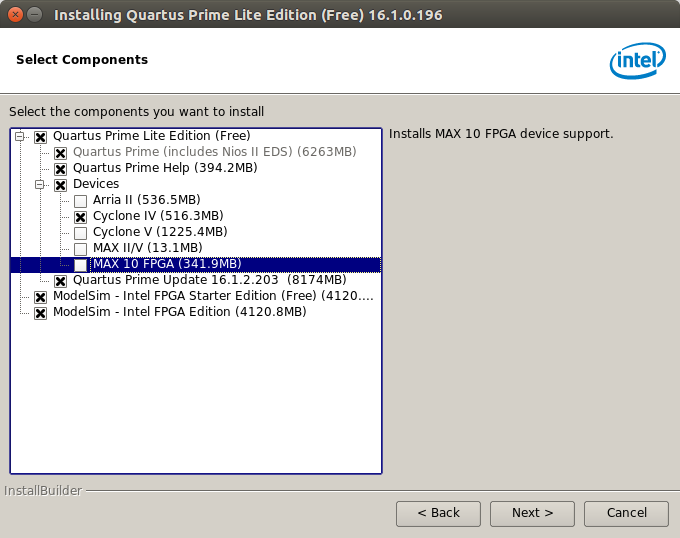
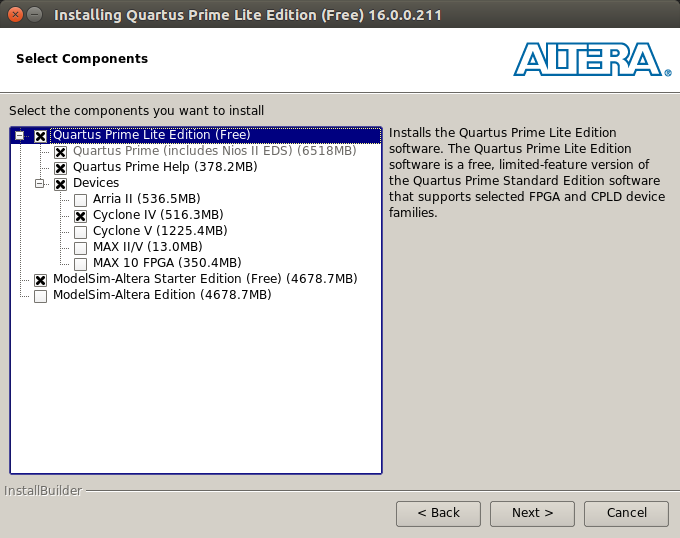
Changing FPGA tutorial slightly
Walking through how to set up the DE2i-150 board, rather
than Quartus itself. Going through how to install Quartus, which version
to install, how to set up USB Blaster with udev (explaining all the little things
I learned).

diff --git a/_drafts/fpga_setup.md b/_drafts/fpga_setup.md
@@ -1,6 +1,6 @@
 ---
 layout:     post
-title:      Getting Started with Altera Quartus Prime
+title:      Getting Started with the DE2i-150 Dev Board
 date:       2017-02-19
 summary:    Setting up Altera Quartus on Ubuntu
 thumbnail:  smile-o
@@ -11,15 +11,22 @@ tags:
 ---
 I'v been itching for a side project lately, so I decided to dig out my DE2i-150 FPGA/Intel Atom development board and start playing with it. I had previously worked with it a bit in a Windows environment, but now that I'm using Ubuntu full-time, I needed to set it up in Linux. I'm going to document all the steps I took to get the board up and running in the hopes that this helps other people get going faster.
 
-You can download Quartus Prime from Intel here:
-[https://www.altera.com/products/design-software/fpga-design/quartus-prime/download.html]()
+<figure class="full">
+    <img src="/assets/img/quartus_install/de2i-150.jpg">
+    <figcaption>The DE2i-150</figcaption>
+</figure>
 
-I chose to download the Lite edition, since it supported my FPGA Series (Cyclone IV GX). If you're in the market for an introductory FPGA, you should consider getting one which the Lite edition supports so that you don't have to pay for the software. A list of supported devices for each software version appears on the above page.
+## Installing Quartus
+
+The latest version of Quartus (as of this writing) is 16.1.2 -- unfortunately, template projects for the DE2i-150 board are only supported for versions 15.1.0 and 16.0.0. So I elected to download the slightly older 16.0.0 release. No big deal.
+
+Here's a link to Quartus Prime Lite 16.0.0:
+[http://dl.altera.com/16.0/?edition=lite]()
 
 The download will come with a setup.sh script in the top-level directory. I recommend running the script as root so that you can install the application in `/opt`:
-
-    sudo ./setup.sh
-
+~~~
+sudo ./setup.sh
+~~~
 For monolithic applications like this one, it's typically recommended to install them in `/opt`:
 <figure class="full">
     <img src="/assets/img/quartus_install/install_dir.png">
@@ -33,3 +40,108 @@ On the next screen, you'll choose the components you want to install. Because I 
     <figcaption>Choosing what to install</figcaption>
 </figure>
 
+Proceed with the installation. Go grab something to eat while it finishes up.
+
+Once it's done, you can add the installation to your path to more easily start the program from the command line. On my machine, all Quartus executables are located at `/opt/altera_lite/16.0/quartus/bin`.
+To add this to my path, I created a script in /etc/profile.d called quartus.sh:
+~~~
+PATH=$PATH:/opt/altera_lite/16.0/quartus/bin
+~~~
+At startup, this script and all others in /etc/profile.d will be sourced.
+Adapt this script to your system, replacing `/opt/altera_lite/16.0` with the install path you used before.
+
+## Configuring the USB Blaster
+
+Now it's time to set up the USB Blaster, which we will use to program the FPGA. Altera Quartus comes with a little daemon
+called `jtagd` which runs in the background and provides a connection between Altera tools and the Linux
+USB drivers, so that Quartus can use the USB Blaster. By default, only `root` will be given access to the USB
+device -- we can leverage udev rules to give normal users access.
+
+Power your DE2i-150 board and plug it into your computer. Type the command `lsusb` to show the USB devices currently
+available, and look for the entry with "Altera" in the name:
+~~~
+...
+Bus 001 Device 014: ID 09fb:6001 Altera Blaster
+...
+~~~
+
+Take note of the two hex numbers separate by a colon just before "Altera Blaster". The first of these,
+`09fb`, is the vendor ID. This uniquely identifies Altera.
+The second, `6001`, is the product ID, which uniquely identifies
+the USB Blaster. I suspect that these will be the same for everyone with this board, but in case,
+take note of whichever vendor and product IDs you see, as you will need them in the next step.
+
+Navigate to `/etc/udev/rules.d`. Create a file as root called `51-usbblaster.rules`:
+~~~
+sudo nano 51-usbblaster.rules
+~~~
+Inside that file, paste the following:
+~~~
+# For Altera USB-Blaster permissions.
+SUBSYSTEM=="usb",\
+ENV{DEVTYPE}=="usb_device",\
+ATTR{idVendor}=="09fb",\
+ATTR{idProduct}=="6001",\
+MODE="0666",\
+NAME="bus/usb/$env{BUSNUM}/$env{DEVNUM}",\
+RUN+="/bin/chmod 0666 %c"
+~~~
+Replace `09fb` above with the vendor ID you saw previously,
+and replace `6001` with your product ID.
+
+This rule will be executed whenever a new USB device is plugged in.
+The first four lines specify that this rule only applies to USB devices
+with a certain vendor and product ID. The rule states that the device
+be assigned permissions `0666`, aka everyone can read and write.
+
+**IMPORTANT:** At this point, unplug your USB blaster. We don't want to
+activate this udev rule while it is plugged in, as this makes troubleshooting
+difficult. I got quite frustrated at first when my udev rule didn't appear to be working --
+all because I hadn't unplugged and replugged, which meant the rule hadn't yet
+been triggered.
+
+Run the following command to load your new udev rule:
+~~~
+sudo udevadm control --reload
+~~~
+And now plug back in your USB blaster. You can use the `jtagconfig` tool
+to test your connection.
+~~~
+$ jtagconfig 
+1) USB-Blaster [1-3]
+  028040DD   EP4CGX150
+~~~
+The above shows that `jtagconfig` successfully identified my USB Blaster.
+
+## Troubleshooting USB Blaster Setup
+
+If you see the following when running `jtagconfig`
+~~~
+$ jtagconfig
+1) USB-Blaster variant [1-3]
+  Unable to lock chain - Insufficient port permissions
+~~~
+then your udev rule is either malformed or hasn't been run.
+Try the following to fix the issue:
+1. Unplug your USB blaster
+2. Ensure your new udev rule is installed in `/etc/udev/rules.d`
+3. Run `sudo udevadm control --reload` to load your new rule.
+4. Plug the USB blaster back in.
+5. Try `jtagconfig` once more.
+
+***********
+
+You may see the following when running `jtagconfig`
+~~~
+$ jtagconfig
+1) USB-Blaster [1-3]
+  Unable to read device chain - JTAG chain broken
+~~~
+This can happen if you unplug and replug your USB blaster
+after `jtagd` has been started. You should kill `jtagd`
+~~~
+sudo killall -9 jtagd
+~~~
+and run `jtagconfig` again, which will start `jtagd` in the background.
+A similar error can occur if you unplug the USB Blaster while running
+Quartus.
